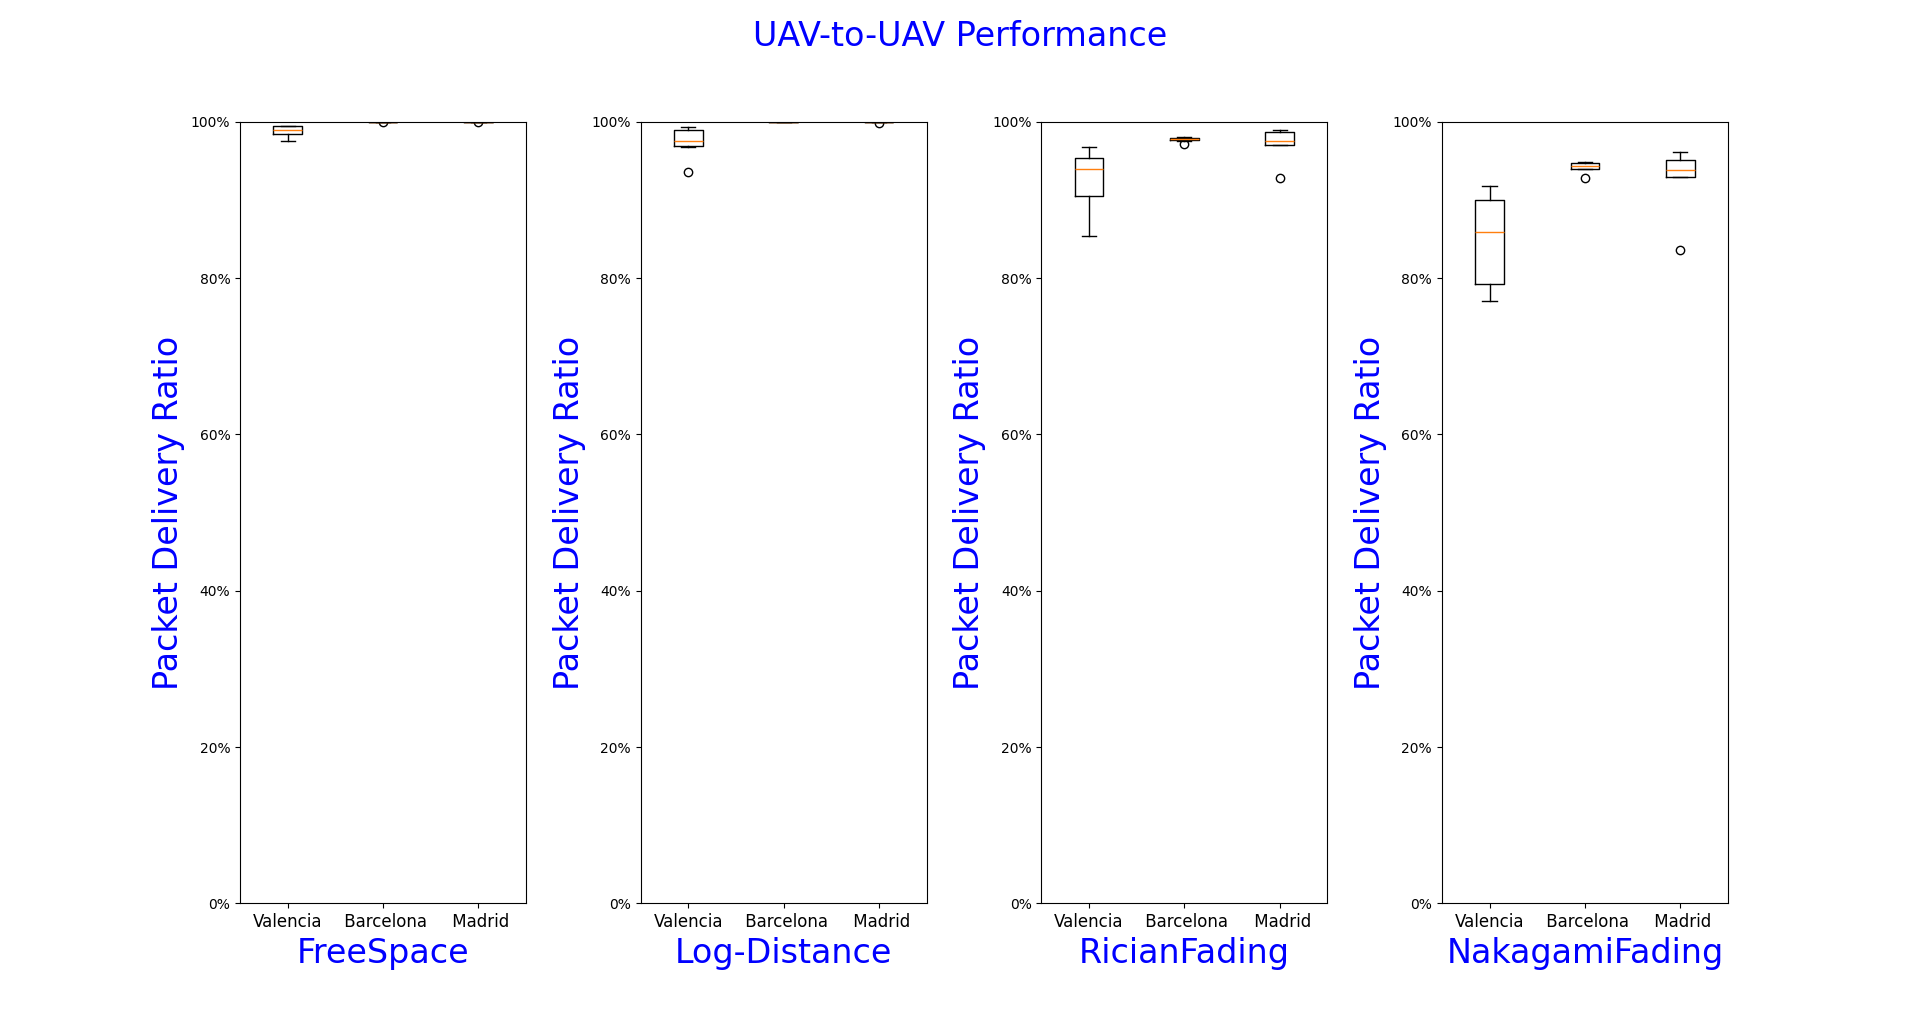
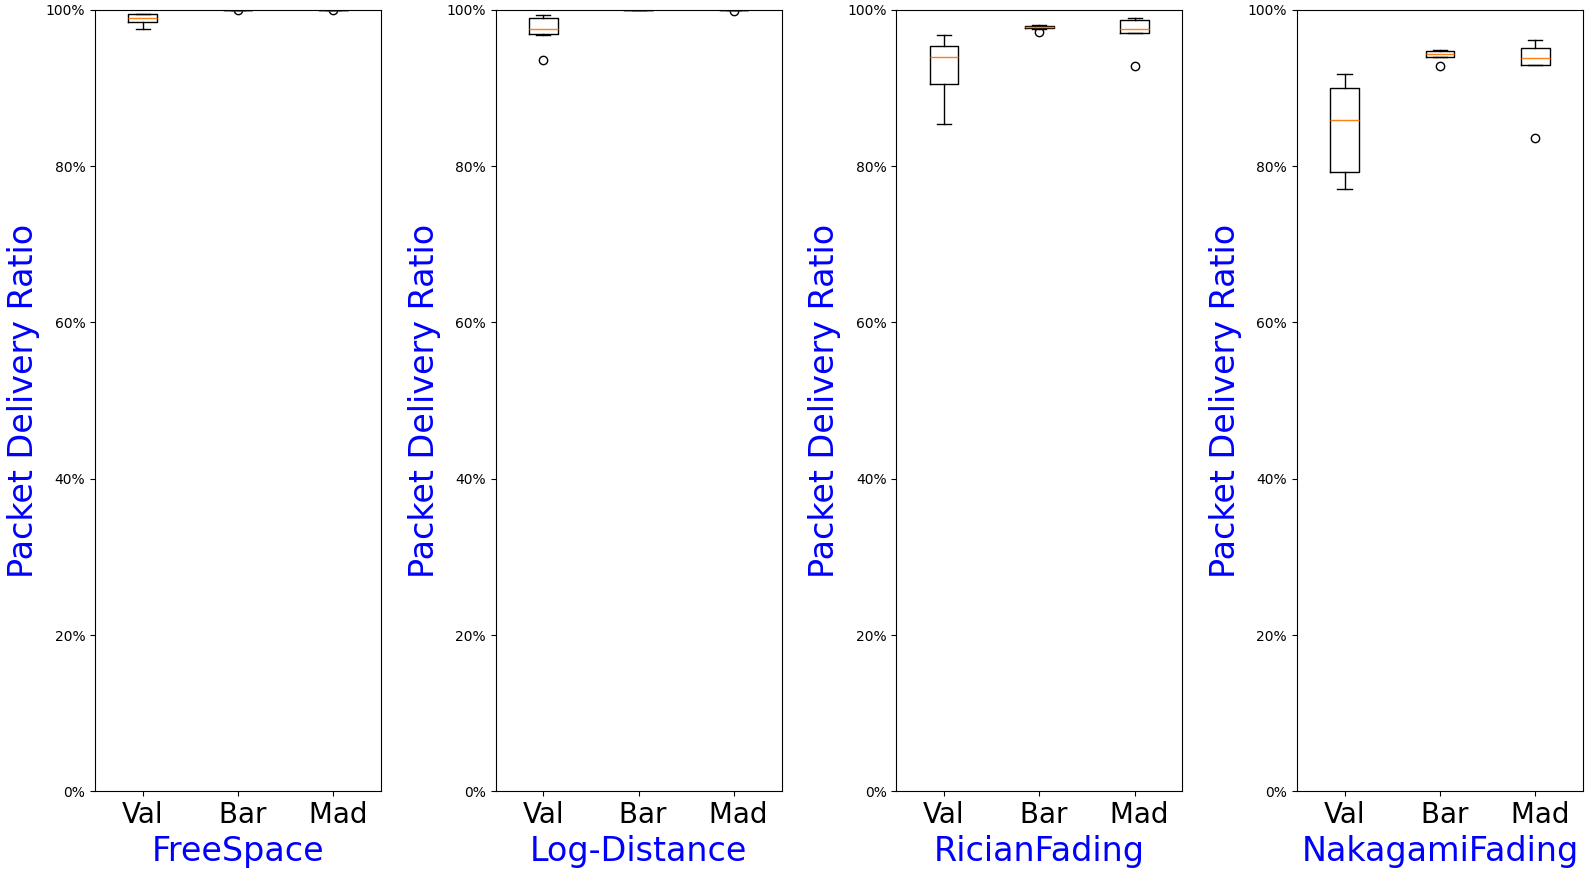
Final

diff --git a/boxplot.py b/boxplot.py
@@ -24,7 +24,7 @@ import matplotlib.ticker as ticker
 
 # files=['UAV_to_UAV_Madrid/FSP.csv', 'UAV_to_UAV_Madrid/LOG.csv', 'UAV_to_UAV_Madrid/Rician.csv', 'UAV_to_UAV_Madrid/Nakagami.csv']
 
-files = ['120_m/FSP.csv', '120_m/LOG.csv', '120_m/RF.csv', '120_m/NF.csv']
+files = ['20_m/FSP.csv', '20_m/LOG.csv', '20_m/RF.csv', '20_m/NF.csv']
 
 data = []
 xlabel = ['FreeSpace','Log-Distance', 'RicianFading', 'NakagamiFading']
@@ -44,7 +44,7 @@ headers = list(data[0].columns)
 # Create a box plot of the data
 for i, ax in enumerate(axs):
     ax.boxplot(data[i])
-    ax.set_xticklabels(headers, fontsize = 12)
+    ax.set_xticklabels(headers, fontsize = 20)
 
 # Add space between subplots
 fig.subplots_adjust(wspace=0.4)
